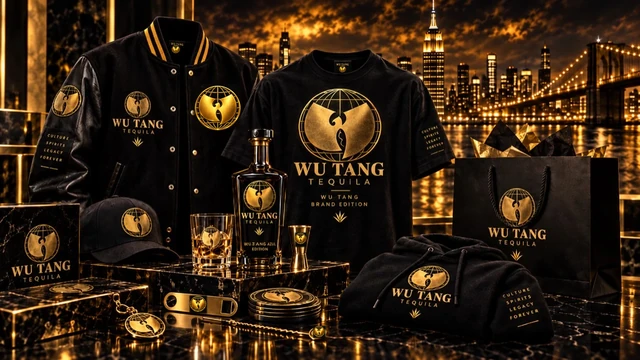
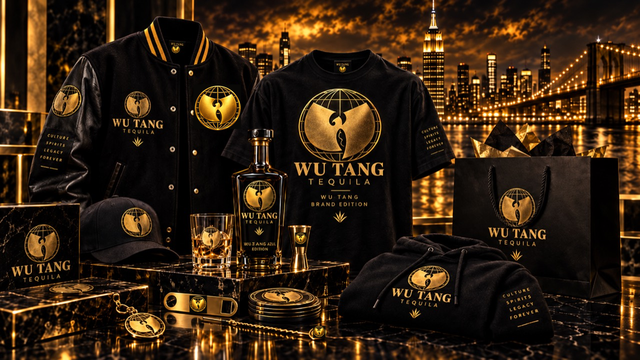
Rebuild review images from originals with lossless exports

diff --git a/collector-goods.html b/collector-goods.html
@@ -1,9 +1,9 @@
 <!doctype html>
-<html lang="en"><head><meta charset="UTF-8"><meta name="viewport" content="width=device-width, initial-scale=1"><meta name="theme-color" content="#080808"><title>Collector Goods | WU-TANG TEQUILA</title><meta name="description" content="Explore the upcoming WU-TANG TEQUILA collector goods collection: apparel, accessories and barware. Register for release updates."><meta property="og:title" content="Collector Goods | WU-TANG TEQUILA"><meta property="og:description" content="Culture. Spirits. Legacy. Discover collector goods coming soon."><meta property="og:type" content="website"><meta property="og:image" content="https://ernestyearby-svg.github.io/wutang-excuse/goods-campaign-globe-review.webp?v=2"><link rel="stylesheet" href="styles.css?v=13"><script type="module" src="app.js?v=11"></script><link rel="stylesheet" href="collector-goods.css?v=3"><script type="module" src="collector-goods.js?v=1"></script></head>
+<html lang="en"><head><meta charset="UTF-8"><meta name="viewport" content="width=device-width, initial-scale=1"><meta name="theme-color" content="#080808"><title>Collector Goods | WU-TANG TEQUILA</title><meta name="description" content="Explore the upcoming WU-TANG TEQUILA collector goods collection: apparel, accessories and barware. Register for release updates."><meta property="og:title" content="Collector Goods | WU-TANG TEQUILA"><meta property="og:description" content="Culture. Spirits. Legacy. Discover collector goods coming soon."><meta property="og:type" content="website"><meta property="og:image" content="https://ernestyearby-svg.github.io/wutang-excuse/goods-campaign-globe-review.webp?v=4"><link rel="stylesheet" href="styles.css?v=13"><script type="module" src="app.js?v=11"></script><link rel="stylesheet" href="collector-goods.css?v=3"><script type="module" src="collector-goods.js?v=1"></script></head>
 <body>
 <dialog id="age-gate" aria-labelledby="age-title"><div class="gate-inner"><span class="wordmark brand-identity" data-brand-identity>WU-TANG<small>TEQUILA</small></span><p class="eyebrow">CULTURE. CRAFT. LEGACY.</p><h2 id="age-title">WELCOME<br>TO WU-TANG</h2><p>Please confirm that you are 21 years of age or older.</p><div class="gate-actions"><button class="button gold" id="enter">I AM 21+</button><button class="button" id="exit">EXIT</button></div><p class="fine">PLEASE DRINK RESPONSIBLY. 21+</p></div></dialog>
 <div id="site"><a class="skip" href="#main">Skip to content</a><header id="header"><a class="wordmark brand-identity" data-brand-identity href="index.html#home" aria-label="WU-TANG TEQUILA home">WU-TANG<small>TEQUILA</small></a><nav aria-label="Main navigation"><a href="index.html#editions">THE EDITIONS</a><button data-reserve>PRE-ORDER</button><a href="collector-goods.html" aria-current="page">COLLECTOR GOODS</a><a href="#signup">JOIN THE LIST</a></nav><button id="menu-toggle" aria-label="Open menu" aria-expanded="false" aria-controls="mobile-menu"><span></span><span></span></button></header>
-<main id="main" class="goods-page"><section class="goods-hero"><div class="goods-hero-top"><div class="goods-official-identity brand-identity" data-brand-identity>WU-TANG TEQUILA</div><div><p class="eyebrow">WU-TANG TEQUILA</p><h1>COLLECTOR<br><em>GOODS.</em></h1></div><div class="goods-hero-intro"><p class="goods-manifesto">CULTURE. <br>SPIRITS. <br>LEGACY.</p><p>A limited collection inspired by the WU-TANG TEQUILA collection.</p><p class="eyebrow">COMING SOON</p><div class="goods-actions"><button class="button gold" data-interest="all">JOIN THE MERCH LIST</button><a class="button" href="#collection">EXPLORE THE COLLECTION ↓</a></div></div></div><div class="goods-campaign"><img src="goods-campaign-globe-review.webp?v=2" srcset="goods-campaign-globe-review-640.webp?v=2 640w, goods-campaign-globe-review.webp?v=2 1280w" sizes="100vw" width="1280" height="720" fetchpriority="high" alt="WU-TANG TEQUILA collector goods campaign with apparel, accessories and barware"></div><div class="goods-caption"><span>APPAREL / ACCESSORIES / BARWARE</span><span>WU-TANG TEQUILA</span></div></section><section class="goods-intro section" id="collection"><p class="eyebrow">THE COLLECTION</p><h2>BUILT BEYOND<br><em>THE BOTTLE.</em></h2><p>A curated collection of apparel, accessories and barware extending the WU-TANG TEQUILA world beyond the spirit itself.</p></section><section class="goods-grid" aria-label="Apparel collection"><article class="goods-card"><img src="goods-tee-globe-review.webp?v=2" srcset="goods-tee-globe-review-640.webp?v=2 640w, goods-tee-globe-review.webp?v=2 1024w" sizes="(max-width:700px) 100vw, (max-width:1000px) 46vw, 30vw" width="1024" height="1280" loading="lazy" alt="HEAVYWEIGHT TEE — approved black and gold WU-TANG TEQUILA presentation"><div class="goods-card-copy"><p class="eyebrow">01 / APPAREL</p><h3>HEAVYWEIGHT TEE</h3><div class="goods-card-bottom"><span>COMING SOON</span><button data-interest="tee" aria-label="Notify me about HEAVYWEIGHT TEE">NOTIFY ME <span aria-hidden="true">↗</span></button></div></div></article><article class="goods-card"><img src="goods-hoodie-globe-review.webp?v=2" srcset="goods-hoodie-globe-review-640.webp?v=2 640w, goods-hoodie-globe-review.webp?v=2 1024w" sizes="(max-width:700px) 100vw, (max-width:1000px) 46vw, 30vw" width="1024" height="1280" loading="lazy" alt="COLLECTOR HOODIE — approved black and gold WU-TANG TEQUILA presentation"><div class="goods-card-copy"><p class="eyebrow">02 / APPAREL</p><h3>COLLECTOR HOODIE</h3><div class="goods-card-bottom"><span>COMING SOON</span><button data-interest="hoodie" aria-label="Notify me about COLLECTOR HOODIE">NOTIFY ME <span aria-hidden="true">↗</span></button></div></div></article><article class="goods-card"><img src="goods-jacket-globe-review.webp?v=2" srcset="goods-jacket-globe-review-640.webp?v=2 640w, goods-jacket-globe-review.webp?v=2 1024w" sizes="(max-width:700px) 100vw, (max-width:1000px) 46vw, 30vw" width="1024" height="1280" loading="lazy" alt="VARSITY JACKET — approved black and gold WU-TANG TEQUILA presentation"><div class="goods-card-copy"><p class="eyebrow">03 / COLLECTOR APPAREL</p><h3>VARSITY JACKET</h3><div class="goods-card-bottom"><span>COMING SOON</span><button data-interest="jacket" aria-label="Notify me about VARSITY JACKET">NOTIFY ME <span aria-hidden="true">↗</span></button></div></div></article></section><section class="goods-feature "><div class="goods-feature-image"><img src="goods-jacket-globe-review.webp?v=2" srcset="goods-jacket-globe-review-640.webp?v=2 640w, goods-jacket-globe-review.webp?v=2 1024w" sizes="(max-width:700px) 100vw, (max-width:1000px) 46vw, 30vw" width="1024" height="1280" loading="lazy" alt="VARSITY JACKET — approved black and gold WU-TANG TEQUILA presentation"></div><div class="goods-feature-copy"><p class="eyebrow">IN FOCUS / VARSITY JACKET</p><h2>THE STATEMENT<br><em>PIECE.</em></h2><p>The varsity jacket. A collector expression in black and gold.</p><p class="eyebrow">COMING SOON</p><button class="button" data-interest="jacket">REGISTER INTEREST ↗</button></div></section><section class="goods-grid" aria-label="Apparel and headwear"><article class="goods-card"><img src="goods-crewneck-globe-review.webp?v=2" srcset="goods-crewneck-globe-review-640.webp?v=2 640w, goods-crewneck-globe-review.webp?v=2 1024w" sizes="(max-width:700px) 100vw, (max-width:1000px) 46vw, 30vw" width="1024" height="1280" loading="lazy" alt="PREMIUM CREWNECK — approved black and gold WU-TANG TEQUILA presentation"><div class="goods-card-copy"><p class="eyebrow">04 / APPAREL</p><h3>PREMIUM CREWNECK</h3><div class="goods-card-bottom"><span>COMING SOON</span><button data-interest="crewneck" aria-label="Notify me about PREMIUM CREWNECK">NOTIFY ME <span aria-hidden="true">↗</span></button></div></div></article><article class="goods-card"><img src="goods-cap.webp?v=2" srcset="goods-cap-640.webp?v=2 640w, goods-cap.webp?v=2 1024w" sizes="(max-width:700px) 100vw, (max-width:1000px) 46vw, 30vw" width="1024" height="1280" loading="lazy" alt="STRUCTURED CAP — approved black and gold WU-TANG TEQUILA presentation"><div class="goods-card-copy"><p class="eyebrow">05 / HEADWEAR</p><h3>STRUCTURED CAP</h3><div class="goods-card-bottom"><span>COMING SOON</span><button data-interest="cap" aria-label="Notify me about STRUCTURED CAP">NOTIFY ME <span aria-hidden="true">↗</span></button></div></div></article><article class="goods-card"><img src="goods-beanie.webp?v=2" srcset="goods-beanie-640.webp?v=2 640w, goods-beanie.webp?v=2 1024w" sizes="(max-width:700px) 100vw, (max-width:1000px) 46vw, 30vw" width="1024" height="1280" loading="lazy" alt="COLLECTOR BEANIE — approved black and gold WU-TANG TEQUILA presentation"><div class="goods-card-copy"><p class="eyebrow">06 / HEADWEAR</p><h3>COLLECTOR BEANIE</h3><div class="goods-card-bottom"><span>COMING SOON</span><button data-interest="beanie" aria-label="Notify me about COLLECTOR BEANIE">NOTIFY ME <span aria-hidden="true">↗</span></button></div></div></article></section><section class="goods-feature reverse"><div class="goods-feature-image"><img src="goods-box.webp?v=2" srcset="goods-box-640.webp?v=2 640w, goods-box.webp?v=2 1024w" sizes="(max-width:700px) 100vw, (max-width:1000px) 46vw, 30vw" width="1024" height="1280" loading="lazy" alt="COLLECTOR BOX — approved black and gold WU-TANG TEQUILA presentation"></div><div class="goods-feature-copy"><p class="eyebrow">IN FOCUS / COLLECTOR BOX</p><h2>BUILT TO BE<br><em>COLLECTED.</em></h2><p>The collector box. A presentation made for the next chapter.</p><p class="eyebrow">COMING SOON</p><button class="button" data-interest="box">REGISTER INTEREST ↗</button></div></section><section class="goods-grid" aria-label="Accessories and lifestyle"><article class="goods-card"><img src="goods-duffel-globe-review.webp?v=2" srcset="goods-duffel-globe-review-640.webp?v=2 640w, goods-duffel-globe-review.webp?v=2 1024w" sizes="(max-width:700px) 100vw, (max-width:1000px) 46vw, 30vw" width="1024" height="1280" loading="lazy" alt="COLLECTOR DUFFEL — approved black and gold WU-TANG TEQUILA presentation"><div class="goods-card-copy"><p class="eyebrow">07 / ACCESSORIES</p><h3>COLLECTOR DUFFEL</h3><div class="goods-card-bottom"><span>COMING SOON</span><button data-interest="duffel" aria-label="Notify me about COLLECTOR DUFFEL">NOTIFY ME <span aria-hidden="true">↗</span></button></div></div></article><article class="goods-card"><img src="goods-barware.webp?v=2" srcset="goods-barware-640.webp?v=2 640w, goods-barware.webp?v=2 1024w" sizes="(max-width:700px) 100vw, (max-width:1000px) 46vw, 30vw" width="1024" height="1280" loading="lazy" alt="BARWARE COLLECTION — approved black and gold WU-TANG TEQUILA presentation"><div class="goods-card-copy"><p class="eyebrow">08 / BAR & LIFESTYLE</p><h3>BARWARE COLLECTION</h3><div class="goods-card-bottom"><span>COMING SOON</span><button data-interest="barware" aria-label="Notify me about BARWARE COLLECTION">NOTIFY ME <span aria-hidden="true">↗</span></button></div></div></article><article class="goods-card"><img src="goods-box.webp?v=2" srcset="goods-box-640.webp?v=2 640w, goods-box.webp?v=2 1024w" sizes="(max-width:700px) 100vw, (max-width:1000px) 46vw, 30vw" width="1024" height="1280" loading="lazy" alt="COLLECTOR BOX — approved black and gold WU-TANG TEQUILA presentation"><div class="goods-card-copy"><p class="eyebrow">09 / LIMITED COLLECTION</p><h3>COLLECTOR BOX</h3><div class="goods-card-bottom"><span>COMING SOON</span><button data-interest="box" aria-label="Notify me about COLLECTOR BOX">NOTIFY ME <span aria-hidden="true">↗</span></button></div></div></article></section><section class="goods-feature "><div class="goods-feature-image"><img src="goods-barware.webp?v=2" srcset="goods-barware-640.webp?v=2 640w, goods-barware.webp?v=2 1024w" sizes="(max-width:700px) 100vw, (max-width:1000px) 46vw, 30vw" width="1024" height="1280" loading="lazy" alt="BARWARE COLLECTION — approved black and gold WU-TANG TEQUILA presentation"></div><div class="goods-feature-copy"><p class="eyebrow">IN FOCUS / BARWARE COLLECTION</p><h2>THE EXPERIENCE<br>CONTINUES<br><em>AFTER THE POUR.</em></h2><p>The barware collection. Culture in every detail.</p><p class="eyebrow">COMING SOON</p><button class="button" data-interest="barware">REGISTER INTEREST ↗</button></div></section><section class="goods-signup section" id="signup"><p class="eyebrow">RELEASE INFORMATION / EARLY ACCESS</p><h2>YOUR NEXT<br><em>COLLECTOR MOMENT.</em></h2><p>Register for release information and availability updates.</p><button class="button gold" data-interest="all">JOIN THE MERCH LIST ↗</button></section><form id="signup-form" hidden><input name="email" type="email"></form><div id="signup-success" hidden></div></main><footer id="contact"><div class="footer-top"><a class="wordmark brand-identity" data-brand-identity href="index.html#home">WU-TANG<small>TEQUILA</small></a><nav aria-label="Footer navigation"><a href="index.html#contact">CONTACT</a><a href="index.html#editions">THE EDITIONS</a><button data-reserve>PRE-ORDER</button><a href="collector-goods.html" aria-current="page">COLLECTOR GOODS</a><a href="#signup">JOIN THE LIST</a></nav></div><div class="footer-bottom"><span>PLEASE DRINK RESPONSIBLY. 21+</span><span>Designed &amp; Developed by Dynasty Works Studio</span></div></footer></div>
+<main id="main" class="goods-page"><section class="goods-hero"><div class="goods-hero-top"><div class="goods-official-identity brand-identity" data-brand-identity>WU-TANG TEQUILA</div><div><p class="eyebrow">WU-TANG TEQUILA</p><h1>COLLECTOR<br><em>GOODS.</em></h1></div><div class="goods-hero-intro"><p class="goods-manifesto">CULTURE. <br>SPIRITS. <br>LEGACY.</p><p>A limited collection inspired by the WU-TANG TEQUILA collection.</p><p class="eyebrow">COMING SOON</p><div class="goods-actions"><button class="button gold" data-interest="all">JOIN THE MERCH LIST</button><a class="button" href="#collection">EXPLORE THE COLLECTION ↓</a></div></div></div><div class="goods-campaign"><img src="goods-campaign-globe-review.webp?v=4" srcset="goods-campaign-globe-review-640.webp?v=4 640w, goods-campaign-globe-review.webp?v=4 1280w" sizes="100vw" width="1280" height="720" fetchpriority="high" alt="WU-TANG TEQUILA collector goods campaign with apparel, accessories and barware"></div><div class="goods-caption"><span>APPAREL / ACCESSORIES / BARWARE</span><span>WU-TANG TEQUILA</span></div></section><section class="goods-intro section" id="collection"><p class="eyebrow">THE COLLECTION</p><h2>BUILT BEYOND<br><em>THE BOTTLE.</em></h2><p>A curated collection of apparel, accessories and barware extending the WU-TANG TEQUILA world beyond the spirit itself.</p></section><section class="goods-grid" aria-label="Apparel collection"><article class="goods-card"><img src="goods-tee-globe-review.webp?v=4" srcset="goods-tee-globe-review-640.webp?v=4 640w, goods-tee-globe-review.webp?v=4 1024w" sizes="(max-width:700px) 100vw, (max-width:1000px) 46vw, 30vw" width="1024" height="1280" loading="lazy" alt="HEAVYWEIGHT TEE — approved black and gold WU-TANG TEQUILA presentation"><div class="goods-card-copy"><p class="eyebrow">01 / APPAREL</p><h3>HEAVYWEIGHT TEE</h3><div class="goods-card-bottom"><span>COMING SOON</span><button data-interest="tee" aria-label="Notify me about HEAVYWEIGHT TEE">NOTIFY ME <span aria-hidden="true">↗</span></button></div></div></article><article class="goods-card"><img src="goods-hoodie-globe-review.webp?v=4" srcset="goods-hoodie-globe-review-640.webp?v=4 640w, goods-hoodie-globe-review.webp?v=4 1024w" sizes="(max-width:700px) 100vw, (max-width:1000px) 46vw, 30vw" width="1024" height="1280" loading="lazy" alt="COLLECTOR HOODIE — approved black and gold WU-TANG TEQUILA presentation"><div class="goods-card-copy"><p class="eyebrow">02 / APPAREL</p><h3>COLLECTOR HOODIE</h3><div class="goods-card-bottom"><span>COMING SOON</span><button data-interest="hoodie" aria-label="Notify me about COLLECTOR HOODIE">NOTIFY ME <span aria-hidden="true">↗</span></button></div></div></article><article class="goods-card"><img src="goods-jacket-globe-review.webp?v=4" srcset="goods-jacket-globe-review-640.webp?v=4 640w, goods-jacket-globe-review.webp?v=4 1024w" sizes="(max-width:700px) 100vw, (max-width:1000px) 46vw, 30vw" width="1024" height="1280" loading="lazy" alt="VARSITY JACKET — approved black and gold WU-TANG TEQUILA presentation"><div class="goods-card-copy"><p class="eyebrow">03 / COLLECTOR APPAREL</p><h3>VARSITY JACKET</h3><div class="goods-card-bottom"><span>COMING SOON</span><button data-interest="jacket" aria-label="Notify me about VARSITY JACKET">NOTIFY ME <span aria-hidden="true">↗</span></button></div></div></article></section><section class="goods-feature "><div class="goods-feature-image"><img src="goods-jacket-globe-review.webp?v=4" srcset="goods-jacket-globe-review-640.webp?v=4 640w, goods-jacket-globe-review.webp?v=4 1024w" sizes="(max-width:700px) 100vw, (max-width:1000px) 43vw, (max-width:1440px) 41vw, 600px" width="1024" height="1280" loading="lazy" alt="VARSITY JACKET — approved black and gold WU-TANG TEQUILA presentation"></div><div class="goods-feature-copy"><p class="eyebrow">IN FOCUS / VARSITY JACKET</p><h2>THE STATEMENT<br><em>PIECE.</em></h2><p>The varsity jacket. A collector expression in black and gold.</p><p class="eyebrow">COMING SOON</p><button class="button" data-interest="jacket">REGISTER INTEREST ↗</button></div></section><section class="goods-grid" aria-label="Apparel and headwear"><article class="goods-card"><img src="goods-crewneck-globe-review.webp?v=4" srcset="goods-crewneck-globe-review-640.webp?v=4 640w, goods-crewneck-globe-review.webp?v=4 1024w" sizes="(max-width:700px) 100vw, (max-width:1000px) 46vw, 30vw" width="1024" height="1280" loading="lazy" alt="PREMIUM CREWNECK — approved black and gold WU-TANG TEQUILA presentation"><div class="goods-card-copy"><p class="eyebrow">04 / APPAREL</p><h3>PREMIUM CREWNECK</h3><div class="goods-card-bottom"><span>COMING SOON</span><button data-interest="crewneck" aria-label="Notify me about PREMIUM CREWNECK">NOTIFY ME <span aria-hidden="true">↗</span></button></div></div></article><article class="goods-card"><img src="goods-cap.webp?v=2" srcset="goods-cap-640.webp?v=2 640w, goods-cap.webp?v=2 1024w" sizes="(max-width:700px) 100vw, (max-width:1000px) 46vw, 30vw" width="1024" height="1280" loading="lazy" alt="STRUCTURED CAP — approved black and gold WU-TANG TEQUILA presentation"><div class="goods-card-copy"><p class="eyebrow">05 / HEADWEAR</p><h3>STRUCTURED CAP</h3><div class="goods-card-bottom"><span>COMING SOON</span><button data-interest="cap" aria-label="Notify me about STRUCTURED CAP">NOTIFY ME <span aria-hidden="true">↗</span></button></div></div></article><article class="goods-card"><img src="goods-beanie.webp?v=2" srcset="goods-beanie-640.webp?v=2 640w, goods-beanie.webp?v=2 1024w" sizes="(max-width:700px) 100vw, (max-width:1000px) 46vw, 30vw" width="1024" height="1280" loading="lazy" alt="COLLECTOR BEANIE — approved black and gold WU-TANG TEQUILA presentation"><div class="goods-card-copy"><p class="eyebrow">06 / HEADWEAR</p><h3>COLLECTOR BEANIE</h3><div class="goods-card-bottom"><span>COMING SOON</span><button data-interest="beanie" aria-label="Notify me about COLLECTOR BEANIE">NOTIFY ME <span aria-hidden="true">↗</span></button></div></div></article></section><section class="goods-feature reverse"><div class="goods-feature-image"><img src="goods-box.webp?v=2" srcset="goods-box-640.webp?v=2 640w, goods-box.webp?v=2 1024w" sizes="(max-width:700px) 100vw, (max-width:1000px) 43vw, (max-width:1440px) 41vw, 600px" width="1024" height="1280" loading="lazy" alt="COLLECTOR BOX — approved black and gold WU-TANG TEQUILA presentation"></div><div class="goods-feature-copy"><p class="eyebrow">IN FOCUS / COLLECTOR BOX</p><h2>BUILT TO BE<br><em>COLLECTED.</em></h2><p>The collector box. A presentation made for the next chapter.</p><p class="eyebrow">COMING SOON</p><button class="button" data-interest="box">REGISTER INTEREST ↗</button></div></section><section class="goods-grid" aria-label="Accessories and lifestyle"><article class="goods-card"><img src="goods-duffel-globe-review.webp?v=4" srcset="goods-duffel-globe-review-640.webp?v=4 640w, goods-duffel-globe-review.webp?v=4 1024w" sizes="(max-width:700px) 100vw, (max-width:1000px) 46vw, 30vw" width="1024" height="1280" loading="lazy" alt="COLLECTOR DUFFEL — approved black and gold WU-TANG TEQUILA presentation"><div class="goods-card-copy"><p class="eyebrow">07 / ACCESSORIES</p><h3>COLLECTOR DUFFEL</h3><div class="goods-card-bottom"><span>COMING SOON</span><button data-interest="duffel" aria-label="Notify me about COLLECTOR DUFFEL">NOTIFY ME <span aria-hidden="true">↗</span></button></div></div></article><article class="goods-card"><img src="goods-barware.webp?v=2" srcset="goods-barware-640.webp?v=2 640w, goods-barware.webp?v=2 1024w" sizes="(max-width:700px) 100vw, (max-width:1000px) 46vw, 30vw" width="1024" height="1280" loading="lazy" alt="BARWARE COLLECTION — approved black and gold WU-TANG TEQUILA presentation"><div class="goods-card-copy"><p class="eyebrow">08 / BAR & LIFESTYLE</p><h3>BARWARE COLLECTION</h3><div class="goods-card-bottom"><span>COMING SOON</span><button data-interest="barware" aria-label="Notify me about BARWARE COLLECTION">NOTIFY ME <span aria-hidden="true">↗</span></button></div></div></article><article class="goods-card"><img src="goods-box.webp?v=2" srcset="goods-box-640.webp?v=2 640w, goods-box.webp?v=2 1024w" sizes="(max-width:700px) 100vw, (max-width:1000px) 46vw, 30vw" width="1024" height="1280" loading="lazy" alt="COLLECTOR BOX — approved black and gold WU-TANG TEQUILA presentation"><div class="goods-card-copy"><p class="eyebrow">09 / LIMITED COLLECTION</p><h3>COLLECTOR BOX</h3><div class="goods-card-bottom"><span>COMING SOON</span><button data-interest="box" aria-label="Notify me about COLLECTOR BOX">NOTIFY ME <span aria-hidden="true">↗</span></button></div></div></article></section><section class="goods-feature "><div class="goods-feature-image"><img src="goods-barware.webp?v=2" srcset="goods-barware-640.webp?v=2 640w, goods-barware.webp?v=2 1024w" sizes="(max-width:700px) 100vw, (max-width:1000px) 43vw, (max-width:1440px) 41vw, 600px" width="1024" height="1280" loading="lazy" alt="BARWARE COLLECTION — approved black and gold WU-TANG TEQUILA presentation"></div><div class="goods-feature-copy"><p class="eyebrow">IN FOCUS / BARWARE COLLECTION</p><h2>THE EXPERIENCE<br>CONTINUES<br><em>AFTER THE POUR.</em></h2><p>The barware collection. Culture in every detail.</p><p class="eyebrow">COMING SOON</p><button class="button" data-interest="barware">REGISTER INTEREST ↗</button></div></section><section class="goods-signup section" id="signup"><p class="eyebrow">RELEASE INFORMATION / EARLY ACCESS</p><h2>YOUR NEXT<br><em>COLLECTOR MOMENT.</em></h2><p>Register for release information and availability updates.</p><button class="button gold" data-interest="all">JOIN THE MERCH LIST ↗</button></section><form id="signup-form" hidden><input name="email" type="email"></form><div id="signup-success" hidden></div></main><footer id="contact"><div class="footer-top"><a class="wordmark brand-identity" data-brand-identity href="index.html#home">WU-TANG<small>TEQUILA</small></a><nav aria-label="Footer navigation"><a href="index.html#contact">CONTACT</a><a href="index.html#editions">THE EDITIONS</a><button data-reserve>PRE-ORDER</button><a href="collector-goods.html" aria-current="page">COLLECTOR GOODS</a><a href="#signup">JOIN THE LIST</a></nav></div><div class="footer-bottom"><span>PLEASE DRINK RESPONSIBLY. 21+</span><span>Designed &amp; Developed by Dynasty Works Studio</span></div></footer></div>
 <dialog id="mobile-menu" aria-label="Navigation"><button class="close" id="menu-close" aria-label="Close menu">CLOSE ×</button><p class="eyebrow">WU-TANG TEQUILA</p><nav><a href="index.html#editions">The editions</a><button data-reserve>Pre-order</button><a href="collector-goods.html" aria-current="page">Collector goods</a><a href="#signup">Join the list</a></nav><p class="fine">REPOSADO. ROOTED IN CULTURE.</p></dialog>
 <dialog id="reservation" aria-labelledby="reserve-title"><button class="close" id="reserve-close" aria-label="Close reservation">CLOSE ×</button><div class="reserve-intro"><p class="eyebrow">YOUR NEXT CHAPTER</p><h2 id="reserve-title">RESERVE<br><em>YOUR EDITION.</em></h2><p>Register your preorder interest.</p><p class="fine">Preview reservation only. No payment, purchase or allocation. Details are not transmitted or saved.</p></div><form id="reserve-form"><div class="fields"><label>First Name<input name="firstName" autocomplete="given-name" required maxlength="80"></label><label>Last Name<input name="lastName" autocomplete="family-name" required maxlength="80"></label><label>Email<input name="email" type="email" autocomplete="email" required maxlength="254"></label><label>Mobile Number<input name="phone" type="tel" autocomplete="tel" required pattern="[+0-9\(\) .\-]{7,25}" maxlength="25" title="Enter a phone number with 7–25 characters."></label><label>State<select name="state" autocomplete="address-level1" required><option value="">Select state</option></select></label><label>Zip Code<input name="zip" autocomplete="postal-code" inputmode="numeric" pattern="[0-9]{5}(-[0-9]{4})?" maxlength="10" title="Enter a five-digit ZIP code or ZIP+4." required></label><label>Edition<select name="edition" required><option value="wu">WU Edition</option><option value="brand">Brand Edition</option></select></label><label>Quantity<select name="quantity" required><option>1</option><option>2</option><option>3</option><option>4+</option></select></label></div><label class="check"><input type="checkbox" name="age" required><span>I confirm that I am 21 years of age or older.</span></label><label class="check"><input type="checkbox" name="consent" required><span>I agree to receive updates regarding WU-TANG TEQUILA availability and release information.</span></label><button class="button gold submit" type="submit">SUBMIT PRE-ORDER INTEREST ↗</button></form><div id="reserve-success" class="success" role="status" tabindex="-1" hidden><p class="eyebrow">PREVIEW CONFIRMATION</p><h3>YOU’RE ON THE LIST.</h3><p>We’ll contact you with release, availability and preorder information.</p><p class="fine">This is a demonstration of the confirmation experience. No details were submitted, and no reservation or follow-up was created.</p><button class="button" id="reserve-done">BACK TO THE PAGE</button></div></dialog>
 <dialog id="goods-interest" aria-labelledby="goods-interest-title"><button class="close" id="goods-close" aria-label="Close interest form">CLOSE ×</button><div id="goods-form-content"><p class="eyebrow">COLLECTOR GOODS / COMING SOON</p><h2 id="goods-interest-title">GET FIRST<br><em>ACCESS.</em></h2><p>Register for release information, availability and early access to WU-TANG TEQUILA collector goods.</p><form id="goods-form"><div class="fields"><label>First Name<input name="firstName" autocomplete="given-name" required maxlength="80"></label><label>Last Name<input name="lastName" autocomplete="family-name" required maxlength="80"></label><label>Email<input name="email" type="email" autocomplete="email" required maxlength="254"></label><label>Mobile Number<input name="phone" type="tel" autocomplete="tel" required minlength="7" title="Enter a phone number with 7–25 characters." maxlength="25"></label></div><fieldset><legend>Interested In <span>(select any)</span></legend><div class="interest-options"><label class="check"><input type="checkbox" name="interests" value="tee"><span>HEAVYWEIGHT TEE</span></label><label class="check"><input type="checkbox" name="interests" value="hoodie"><span>COLLECTOR HOODIE</span></label><label class="check"><input type="checkbox" name="interests" value="jacket"><span>VARSITY JACKET</span></label><label class="check"><input type="checkbox" name="interests" value="crewneck"><span>PREMIUM CREWNECK</span></label><label class="check"><input type="checkbox" name="interests" value="cap"><span>STRUCTURED CAP</span></label><label class="check"><input type="checkbox" name="interests" value="beanie"><span>COLLECTOR BEANIE</span></label><label class="check"><input type="checkbox" name="interests" value="duffel"><span>COLLECTOR DUFFEL</span></label><label class="check"><input type="checkbox" name="interests" value="barware"><span>BARWARE COLLECTION</span></label><label class="check"><input type="checkbox" name="interests" value="box"><span>COLLECTOR BOX</span></label><label class="check"><input type="checkbox" name="interests" value="all"><span>ALL RELEASES</span></label></div></fieldset><p id="goods-error" role="alert" hidden>Please select at least one item or All Releases.</p><p class="fine">Preview form. Your details are not saved or transmitted.</p><button class="button gold submit" type="submit">JOIN THE MERCH LIST ↗</button></form></div><div id="goods-success" class="success" tabindex="-1" role="status" hidden><p class="eyebrow">PREVIEW CONFIRMATION</p><h2>YOU’RE ON<br><em>THE LIST.</em></h2><p>We’ll send release information and availability updates when the collection is ready.</p><p class="fine">This is a preview of the confirmation. No details were submitted and no follow-up has been scheduled.</p><button class="button" id="goods-done">BACK TO THE COLLECTION</button></div></dialog></body></html>

diff --git a/index.html b/index.html
@@ -1,16 +1,16 @@
 <!doctype html>
-<html lang="en"><head><meta charset="UTF-8"><meta name="viewport" content="width=device-width, initial-scale=1"><meta name="theme-color" content="#080808"><title>WU-TANG TEQUILA | Coming Soon</title><meta name="description" content="Discover two EXCUSE Tequila x Wu-Tang editions, the new Reposado chapter, and register for preorder interest and launch updates."><meta property="og:title" content="WU-TANG TEQUILA | Coming Soon"><meta property="og:description" content="Reposado. Rooted in culture. Register for preorder interest and launch updates."><meta property="og:type" content="website"><meta property="og:image" content="https://ernestyearby-svg.github.io/wutang-excuse/nyc-hero.webp"><link rel="preload" as="image" href="hero-desktop-globe-review.webp" media="(min-width: 701px)"><link rel="preload" as="image" href="hero-mobile-globe-review.webp" media="(max-width: 700px)"><link rel="stylesheet" href="styles.css?v=13"><script type="module" src="app.js?v=11"></script></head>
+<html lang="en"><head><meta charset="UTF-8"><meta name="viewport" content="width=device-width, initial-scale=1"><meta name="theme-color" content="#080808"><title>WU-TANG TEQUILA | Coming Soon</title><meta name="description" content="Discover two EXCUSE Tequila x Wu-Tang editions, the new Reposado chapter, and register for preorder interest and launch updates."><meta property="og:title" content="WU-TANG TEQUILA | Coming Soon"><meta property="og:description" content="Reposado. Rooted in culture. Register for preorder interest and launch updates."><meta property="og:type" content="website"><meta property="og:image" content="https://ernestyearby-svg.github.io/wutang-excuse/nyc-hero.webp"><link rel="preload" as="image" href="hero-desktop-globe-review.webp?v=4" media="(min-width: 701px)"><link rel="preload" as="image" href="hero-mobile-globe-review.webp?v=4" media="(max-width: 700px)"><link rel="stylesheet" href="styles.css?v=13"><script type="module" src="app.js?v=11"></script></head>
 <body>
 <dialog id="age-gate" aria-labelledby="age-title"><div class="gate-inner"><span class="wordmark brand-identity" data-brand-identity>WU-TANG<small>TEQUILA</small></span><p class="eyebrow">CULTURE. CRAFT. LEGACY.</p><h2 id="age-title">WELCOME TO<br>WU-TANG TEQUILA</h2><p>Please confirm that you are 21 years of age or older.</p><div class="gate-actions"><button class="button gold" id="enter">I AM 21+</button><button class="button" id="exit">EXIT</button></div><p class="fine">PLEASE DRINK RESPONSIBLY. 21+</p></div></dialog>
 <div id="site"><a class="skip" href="#main">Skip to content</a><header id="header"><a class="wordmark brand-identity" data-brand-identity href="#home" aria-label="WU-TANG TEQUILA home">WU-TANG<small>TEQUILA</small></a><nav aria-label="Main navigation"><a href="#editions">THE EDITIONS</a><button data-reserve>PRE-ORDER</button><a href="collector-goods.html">COLLECTOR GOODS</a><a href="#signup">JOIN THE LIST</a></nav><button id="menu-toggle" aria-label="Open menu" aria-expanded="false" aria-controls="mobile-menu"><span></span><span></span></button></header>
-<main id="main"><section class="hero restored-hero" id="home"><picture><source media="(max-width:700px)" srcset="hero-mobile-globe-review.webp"><img src="hero-desktop-globe-review.webp" width="1280" height="720" fetchpriority="high" alt="EXCUSE collector decanter, presentation box and tall black Brand Edition bottle in golden light"></picture><div class="hero-copy"><p class="eyebrow">WU-TANG TEQUILA</p><h1>MORE THAN<br>TEQUILA.<em>IT’S A MOVEMENT.</em></h1><p class="hero-position">TWO EDITIONS. ONE LEGACY.</p><p class="hero-body">A collector expression and a bold brand edition, united by culture, craft, and legacy.</p><div class="hero-actions"><button class="button gold" data-reserve>PRE-ORDER ↗</button><a class="button" href="#editions">EXPLORE THE EDITIONS</a></div><p class="micro">100% AGAVE AZUL · CULTURE IN EVERY POUR</p></div><div class="hero-caption"><span>COLLECTIBLE SPIRIT. CULTURAL LEGACY.</span><a href="#editions">DISCOVER THE COLLECTION ↓</a></div></section>
+<main id="main"><section class="hero restored-hero" id="home"><picture><source media="(max-width:700px)" srcset="hero-mobile-globe-review.webp?v=4"><img src="hero-desktop-globe-review.webp?v=4" width="1280" height="720" fetchpriority="high" alt="EXCUSE collector decanter, presentation box and tall black Brand Edition bottle in golden light"></picture><div class="hero-copy"><p class="eyebrow">WU-TANG TEQUILA</p><h1>MORE THAN<br>TEQUILA.<em>IT’S A MOVEMENT.</em></h1><p class="hero-position">TWO EDITIONS. ONE LEGACY.</p><p class="hero-body">A collector expression and a bold brand edition, united by culture, craft, and legacy.</p><div class="hero-actions"><button class="button gold" data-reserve>PRE-ORDER ↗</button><a class="button" href="#editions">EXPLORE THE EDITIONS</a></div><p class="micro">100% AGAVE AZUL · CULTURE IN EVERY POUR</p></div><div class="hero-caption"><span>COLLECTIBLE SPIRIT. CULTURAL LEGACY.</span><a href="#editions">DISCOVER THE COLLECTION ↓</a></div></section>
 <section class="section collection" id="editions"><div class="section-heading"><p class="eyebrow">01 / THE COLLECTION</p><h2>TWO EXPRESSIONS.<br><em>ONE LEGACY.</em></h2><p>Distinct in expression.<br>United by culture.</p></div><div class="edition-grid">
-<article><div class="product-image"><img src="wu-edition-globe-review.webp" width="1280" height="960" loading="lazy" alt="WU Edition crystal decanter and silver Wu presentation box"><span>01 / THE COLLECTOR EXPRESSION</span></div><div class="product-copy"><h3>THE WU EDITION</h3><p class="eyebrow silver">LIMITED. RARE. COLLECTED.</p><p>The collector expression of EXCUSE Tequila x Wu-Tang, presented in a distinctive decanter and collector presentation format.</p><button class="button" data-reserve="wu">PRE-ORDER WU EDITION ↗</button></div></article>
-<article><div class="product-image"><img src="brand-edition-globe-review.webp" width="1280" height="960" loading="lazy" alt="Tall black Wu-Tang Brand Edition bottle with gold EXCUSE treatment"><span>02 / THE BRAND EXPRESSION</span></div><div class="product-copy"><h3>WU-TANG BRAND EDITION</h3><p class="eyebrow">FOR THE WORLD.</p><p>The core expression designed to bring EXCUSE Tequila x Wu-Tang to a broader audience. A new chapter in culture, craft and discovery.</p><button class="button" data-reserve="brand">PRE-ORDER BRAND EDITION ↗</button></div></article></div></section>
+<article><div class="product-image"><img src="wu-edition-globe-review.webp?v=4" width="1280" height="960" loading="lazy" alt="WU Edition crystal decanter and silver Wu presentation box"><span>01 / THE COLLECTOR EXPRESSION</span></div><div class="product-copy"><h3>THE WU EDITION</h3><p class="eyebrow silver">LIMITED. RARE. COLLECTED.</p><p>The collector expression of EXCUSE Tequila x Wu-Tang, presented in a distinctive decanter and collector presentation format.</p><button class="button" data-reserve="wu">PRE-ORDER WU EDITION ↗</button></div></article>
+<article><div class="product-image"><img src="brand-edition-globe-review.webp?v=4" width="1280" height="960" loading="lazy" alt="Tall black Wu-Tang Brand Edition bottle with gold EXCUSE treatment"><span>02 / THE BRAND EXPRESSION</span></div><div class="product-copy"><h3>WU-TANG BRAND EDITION</h3><p class="eyebrow">FOR THE WORLD.</p><p>The core expression designed to bring EXCUSE Tequila x Wu-Tang to a broader audience. A new chapter in culture, craft and discovery.</p><button class="button" data-reserve="brand">PRE-ORDER BRAND EDITION ↗</button></div></article></div></section>
 <section class="nyc-feature" id="next-chapter"><div class="nyc-feature-copy"><p class="eyebrow">02 / THE NEXT CHAPTER</p><h2>REPOSADO.<br><em>ROOTED IN CULTURE.</em></h2><p class="eyebrow">COMING SOON</p><p>A bold new EXCUSE Tequila expression created at the intersection of premium spirits, culture and legacy.</p><p class="micro">100% DE AGAVE AZUL</p><button class="button gold" data-reserve="brand">RESERVE YOUR BOTTLE ↗</button></div><picture><source media="(max-width:700px)" srcset="nyc-mobile.webp"><img src="nyc-hero.webp" width="1280" height="720" loading="lazy" alt="New Reposado bottle and box beneath the gold Wu globe above New York"></picture></section>
 <section class="craft" id="craft"><img src="agave.webp" width="1280" height="720" loading="lazy" alt="Agave fields in golden evening light"><div><p class="eyebrow">03 / THE CRAFT</p><h2>CRAFTED BY NATURE.<br><em>DRIVEN BY CULTURE.</em></h2><p>100% Agave Azul. A premium tequila expression created for the next chapter of EXCUSE.</p></div></section>
-<section class="culture section" id="legacy"><div class="culture-art"><img src="legacy-globe-review.webp" width="1280" height="720" loading="lazy" alt="Gold-lit stone architecture overlooking the New York skyline"></div><div class="culture-copy"><p class="eyebrow">04 / THE LEGACY</p><h2>BUILT ON CULTURE.<br><em>DESIGNED FOR<br>WHAT’S NEXT.</em></h2><p>EXCUSE Tequila x Wu-Tang brings together premium spirits, collectible design, and cultural legacy in a collaboration created for a new generation.</p><a class="button" href="#signup">JOIN THE MOVEMENT ↗</a></div></section>
-<section class="goods-teaser section"><a href="collector-goods.html" aria-label="Explore collector goods"><img src="goods-campaign-globe-review.webp?v=2" srcset="goods-campaign-globe-review-640.webp?v=2 640w, goods-campaign-globe-review.webp?v=2 1280w" sizes="(max-width:700px) 100vw, (max-width:1000px) 46vw, 30vw" width="1280" height="720" loading="lazy" alt="WU-TANG TEQUILA collector goods campaign with apparel, accessories and barware"></a><div><p class="eyebrow">WU-TANG TEQUILA / BEYOND THE BOTTLE</p><h2>COLLECTOR GOODS<br><em>ARE COMING.</em></h2><p>Apparel. Accessories. Barware. Limited releases.</p><a class="button" href="collector-goods.html">EXPLORE COLLECTOR GOODS ↗</a></div></section><section class="signup section" id="signup"><div><p class="eyebrow">RELEASE ANNOUNCEMENTS / EARLY ACCESS</p><h2>BE FIRST INTO<br><em>THE NEXT CHAPTER.</em></h2></div><div><form id="signup-form"><label for="signup-email">EMAIL ADDRESS</label><div class="email-row"><input id="signup-email" name="email" type="email" autocomplete="email" placeholder="Your email address" required maxlength="254"><button class="button gold" type="submit">JOIN THE LIST ↗</button></div><p class="fine">Preview only. Your email is not transmitted or saved.</p></form><div id="signup-success" class="success" role="status" hidden><h3>YOU’RE ON THE LIST.</h3><p>We’ll contact you with release, availability and preorder information.</p><p class="fine">Preview complete. No email has been submitted.</p></div></div></section>
+<section class="culture section" id="legacy"><div class="culture-art"><img src="legacy-globe-review.webp?v=4" width="1280" height="720" loading="lazy" alt="Gold-lit stone architecture overlooking the New York skyline"></div><div class="culture-copy"><p class="eyebrow">04 / THE LEGACY</p><h2>BUILT ON CULTURE.<br><em>DESIGNED FOR<br>WHAT’S NEXT.</em></h2><p>EXCUSE Tequila x Wu-Tang brings together premium spirits, collectible design, and cultural legacy in a collaboration created for a new generation.</p><a class="button" href="#signup">JOIN THE MOVEMENT ↗</a></div></section>
+<section class="goods-teaser section"><a href="collector-goods.html" aria-label="Explore collector goods"><img src="goods-campaign-globe-review.webp?v=4" srcset="goods-campaign-globe-review-640.webp?v=4 640w, goods-campaign-globe-review.webp?v=4 1280w" sizes="(max-width:700px) 100vw, (max-width:1000px) 46vw, 30vw" width="1280" height="720" loading="lazy" alt="WU-TANG TEQUILA collector goods campaign with apparel, accessories and barware"></a><div><p class="eyebrow">WU-TANG TEQUILA / BEYOND THE BOTTLE</p><h2>COLLECTOR GOODS<br><em>ARE COMING.</em></h2><p>Apparel. Accessories. Barware. Limited releases.</p><a class="button" href="collector-goods.html">EXPLORE COLLECTOR GOODS ↗</a></div></section><section class="signup section" id="signup"><div><p class="eyebrow">RELEASE ANNOUNCEMENTS / EARLY ACCESS</p><h2>BE FIRST INTO<br><em>THE NEXT CHAPTER.</em></h2></div><div><form id="signup-form"><label for="signup-email">EMAIL ADDRESS</label><div class="email-row"><input id="signup-email" name="email" type="email" autocomplete="email" placeholder="Your email address" required maxlength="254"><button class="button gold" type="submit">JOIN THE LIST ↗</button></div><p class="fine">Preview only. Your email is not transmitted or saved.</p></form><div id="signup-success" class="success" role="status" hidden><h3>YOU’RE ON THE LIST.</h3><p>We’ll contact you with release, availability and preorder information.</p><p class="fine">Preview complete. No email has been submitted.</p></div></div></section>
 </main><footer id="contact"><div class="footer-top"><a class="wordmark brand-identity" data-brand-identity href="#home">WU-TANG<small>TEQUILA</small></a><nav aria-label="Footer navigation"><a href="#editions">THE EDITIONS</a><button data-reserve>PRE-ORDER</button><a href="collector-goods.html">COLLECTOR GOODS</a><a href="#signup">JOIN THE LIST</a></nav></div><div class="footer-bottom"><span>PLEASE DRINK RESPONSIBLY. 21+</span><span>Designed &amp; Developed by Dynasty Works Studio</span></div></footer></div>
 <dialog id="mobile-menu" aria-label="Navigation"><button class="close" id="menu-close" aria-label="Close menu">CLOSE ×</button><p class="eyebrow">EXCUSE TEQUILA x WU-TANG</p><nav><a href="#editions">The editions</a><button data-reserve>Pre-order</button><a href="collector-goods.html">Collector goods</a><a href="#signup">Join the list</a></nav><p class="fine">REPOSADO. ROOTED IN CULTURE.</p></dialog>
 <dialog id="reservation" aria-labelledby="reserve-title"><button class="close" id="reserve-close" aria-label="Close reservation">CLOSE ×</button><div class="reserve-intro"><p class="eyebrow">YOUR NEXT CHAPTER</p><h2 id="reserve-title">RESERVE<br><em>YOUR EDITION.</em></h2><p>Register your preorder interest.</p><p class="fine">Preview reservation only. No payment, purchase or allocation. Details are not transmitted or saved.</p></div><form id="reserve-form"><div class="fields"><label>First Name<input name="firstName" autocomplete="given-name" required maxlength="80"></label><label>Last Name<input name="lastName" autocomplete="family-name" required maxlength="80"></label><label>Email<input name="email" type="email" autocomplete="email" required maxlength="254"></label><label>Mobile Number<input name="phone" type="tel" autocomplete="tel" required pattern="[+0-9\(\) .\-]{7,25}" maxlength="25" title="Enter a phone number with 7–25 characters."></label><label>State<select name="state" autocomplete="address-level1" required><option value="">Select state</option></select></label><label>Zip Code<input name="zip" autocomplete="postal-code" inputmode="numeric" pattern="[0-9]{5}(-[0-9]{4})?" maxlength="10" title="Enter a five-digit ZIP code or ZIP+4." required></label><label>Edition<select name="edition" required><option value="wu">WU Edition</option><option value="brand">Brand Edition</option></select></label><label>Quantity<select name="quantity" required><option>1</option><option>2</option><option>3</option><option>4+</option></select></label></div><label class="check"><input type="checkbox" name="age" required><span>I confirm that I am 21 years of age or older.</span></label><label class="check"><input type="checkbox" name="consent" required><span>I agree to receive updates regarding EXCUSE Tequila availability and release information.</span></label><button class="button gold submit" type="submit">SUBMIT PRE-ORDER INTEREST ↗</button></form><div id="reserve-success" class="success" role="status" tabindex="-1" hidden><p class="eyebrow">PREVIEW CONFIRMATION</p><h3>YOU’RE ON THE LIST.</h3><p>We’ll contact you with release, availability and preorder information.</p><p class="fine">This is a demonstration of the confirmation experience. No details were submitted, and no reservation or follow-up was created.</p><button class="button" id="reserve-done">BACK TO THE PAGE</button></div></dialog>

diff --git a/BRAND-ASSET-AUDIT.md b/BRAND-ASSET-AUDIT.md
@@ -53,3 +53,5 @@ REVIEW_BRANCH_READY_FOR_CLIENT_APPROVAL: YES
 ## Modified deliverables
 
 index.html, collector-goods.html, styles.css, collector-goods.css, app.js, brand.js, transparent globe master, 22 corrected WebP assets, this audit, and compositing manifest. Local lossless masters and reproducible compositing script are retained in review-artwork/ and composite-globe-review.py.
+## Image quality correction
+Review composites are now rebuilt directly from original supplied JPGs, not previously compressed WebPs. Full-size and 640px WebPs use lossless encoding. Edge-mask feathering is reduced to 0.65px; no global blur or sharpening is applied. Feature-section responsive sizes now reflect their actual display width. Original source resolution limits remain: landscape 1280px, dedicated mobile hero 720px, merchandise portraits 1024px. No synthetic detail or logo redraw was introduced.
